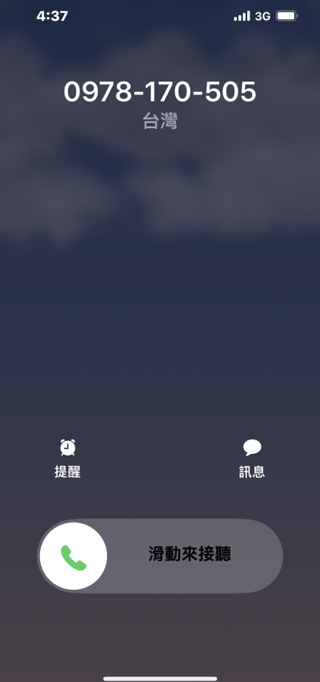
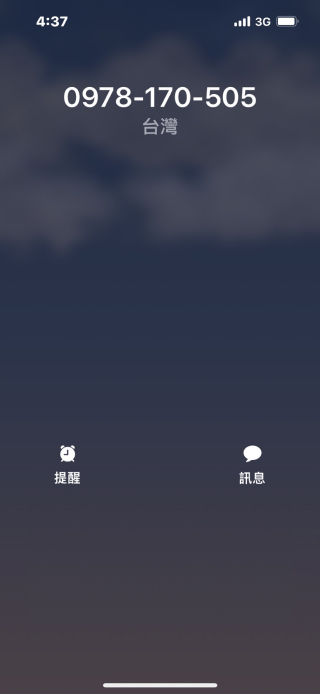
1.index固定按鈕RWD 2.p07demoPhone圖片更新

diff --git a/frontend/src/views/IndexView.vue b/frontend/src/views/IndexView.vue
@@ -21,7 +21,7 @@
           <backTopBtn />
         </div>
         <!-- 機器人 -->
-        <svg width="110" height="90px" style="">
+        <svg class="robot">
           <use xlink:href="#robot" @click="showComponent = true" width="110" />
         </svg>
         <div class="clost-bg" v-if="show" @click="$emit('ddd')"></div>
@@ -181,26 +181,20 @@ import frontFooter from "@/components/f_footer.vue";
 import backTopBtn from "@/components/backTopBtn.vue";
 import banner from "@/components/banner.vue";
 
-// export default {
-//   components: {
-//     indexChatbot,
-//     frontNavbar,
-//     frontFooter,
-//     backTopBtn,
-//     banner,
-//   },
-// };
-// setup() {
 const showComponent = ref(false);
 const partial = ref(`<div class="circle"></div>`);
-
-// return {
-// showComponent,
-// };
-// },
 </script>
 
-<style scoped>
+<style lang="scss" scoped>
+svg.robot {
+  width: 110px;
+  height: 90px;
+  @media (max-width: 420px) {
+    height: 55px;
+    padding-left: 5px;
+  }
+}
+
 footer {
   height: 600px;
   background-image: url(../assets/img/index/footer.png);

diff --git a/frontend/src/assets/Sass/pages/_index.scss b/frontend/src/assets/Sass/pages/_index.scss
@@ -168,6 +168,9 @@
         @include rwd(md) {
           font-size: 2rem;
         }
+        @include rwd(sm) {
+          font-size: 1.5rem;
+        }
       }
 
       hr {
@@ -221,10 +224,21 @@
 
           .fontT26_index_article {
             @include fontT26_index_article();
+            @include rwd(sm) {
+              font-size: 1.2rem;
+              text-align: center;
+            }
           }
-
           .fontP18_index_article {
             @include fontP18_index_article();
+            @include rwd(sm) {
+              font-size: 1rem;
+            }
+          }
+          p {
+            @include rwd(sm) {
+              font-size: 1rem;
+            }
           }
         }
       }
@@ -268,6 +282,10 @@
               @include fontT26_index_article();
               @include rwd(md) {
                 font-size: 1.3rem;
+              }
+              @include rwd(sm) {
+                font-size: 1.2rem;
+                text-align: center;
               }
             }
 

diff --git a/frontend/src/assets/Sass/component/_backTop.scss b/frontend/src/assets/Sass/component/_backTop.scss
@@ -17,8 +17,15 @@
   opacity: 0.8;
   z-index: 500;
   @include rwd(sm) {
-    width: 50px;
-    height: 50px;
-    font-size: 25px;
+    width: 40px;
+    height: 40px;
+    font-size: 16px;
+  }
+  svg.robot {
+    width: 110px;
+    height: 90px;
+    @include rwd(sm) {
+      height: 55px;
+    }
   }
 }
